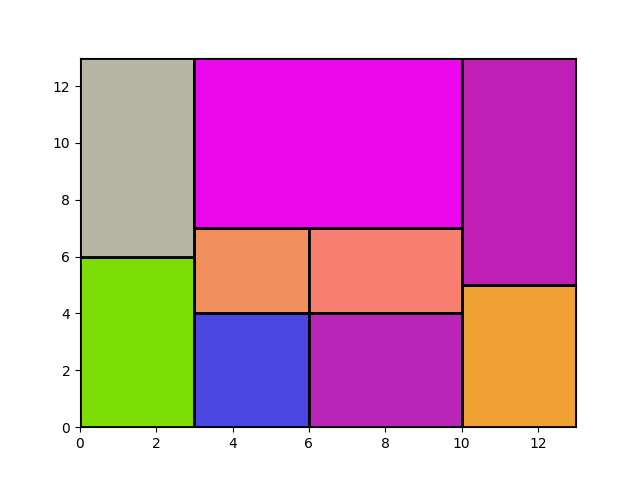
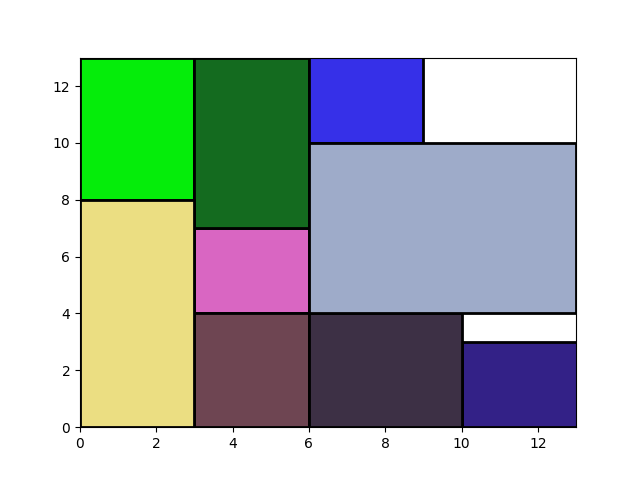
added a rotation solver

diff --git a/SMT/rotation_solver.py b/SMT/rotation_solver.py
@@ -1,7 +1,7 @@
 import numpy as np
 from z3 import *
 import matplotlib.pyplot as plt
-
+import os
 from random import randint
 import matplotlib.pyplot as plt
 from matplotlib.patches import Rectangle
@@ -9,6 +9,8 @@ import time
 from itertools import combinations
 import utils as utils
 
+
+set_option(timeout=300000)
 
 def plate(w, n, min_h, max_h, chip_w, chip_h):
   start_time = time.time()
@@ -41,57 +43,78 @@ def plate(w, n, min_h, max_h, chip_w, chip_h):
 
 
           #domani bounds
-          s.add([And(0 <= x_positions[i], x_positions[i] <= w - chip_w[i])
+          s.add([And(0 <= x_positions[i], x_positions[i] <= w - chip_w_true[i])
                              for i in range(n)])
           
-          s.add([And(0 <= y_positions[i], y_positions[i] < h - chip_h[i])
+          s.add([And(0 <= y_positions[i], y_positions[i] < h - chip_h_true[i])
                              for i in range(n)])
           
           #cumulatively on the rows
           for u in range(h):
             s.add(
-                w >= Sum([If(And(y_positions[i] <= u, u < y_positions[i] + chip_h[i]),
-                                      chip_w[i], 0) for i in range(n)]))
+                w >= Sum([If(And(y_positions[i] <= u, u < y_positions[i] + chip_h_true[i]),
+                                      chip_w_true[i], 0) for i in range(n)]))
           
           
           #cumulatively on the columns
           for u in range(w):
-                s.add(h >= Sum([If(And(x_positions[i] <= u, u < x_positions[i] + chip_w[i]),
-                                             chip_h[i], 0) for i in range(n)]))
+                s.add(h >= Sum([If(And(x_positions[i] <= u, u < x_positions[i] + chip_w_true[i]),
+                                             chip_h_true[i], 0) for i in range(n)]))
         
         
           #overlap
           for (i,j) in combinations(range(n), 2):
-              s.add(Or(y_positions[i] + chip_h[i] <= y_positions[j],
-                                       y_positions[j] + chip_h[j] <= y_positions[i],
-                                       x_positions[i] + chip_w[i] <= x_positions[j],
-                                       x_positions[j] + chip_w[j] <= x_positions[i]))
-  
-          #bottom left
-          s.add(And(x_positions[0] == 0, y_positions[0] == 0))
+              s.add(Or(y_positions[i] + chip_h_true[i] <= y_positions[j],
+                                       y_positions[j] + chip_h_true[j] <= y_positions[i],
+                                       x_positions[i] + chip_w_true[i] <= x_positions[j],
+                                       x_positions[j] + chip_w_true[j] <= x_positions[i]))
 
 
-          # circuits must be pushed on the left
-          s.add( [sum([If(x_positions[i] <= w // 2, chip_w[i]*chip_h[i], 0) for i in range(n)])
-            >= sum([If(x_positions[i] > w // 2, chip_w[i]*chip_h[i], 0) for i in range(n)])]   )
-                
-          s.check()
-          m = s.model()
-          timeout = 300000
-          s.set("timeout", timeout)
-          x_pos = []
-          for i in range(n):
-            x_pos.append(m[x_positions[i]].as_long())
-          y_pos = []
-          for i in range(n):
-            y_pos.append(m[y_positions[i]].as_long())
-          elapsed_time = time.time() - start_time
-          print(f'{elapsed_time * 1000:.1f} ms')
-          return m, x_pos, y_pos, h, elapsed_time
+          # for i in range(1, n):
+          #   for j in range(0, i):
+          #       s.add(Or(y_positions[i] + chip_h_true[i] <= y_positions[j],
+          #                           y_positions[j] + chip_h_true[j] <= y_positions[i],
+          #                           x_positions[i] + chip_w_true[i] <= x_positions[j],
+          #                           x_positions[j] + chip_w_true[j] <= x_positions[i]))
+
+          #symmetry breaking
+          #the strict one seems to perform worst
+          def precedes(a1, a2):
+            if not a1:
+              return True
+            if not a2:
+              return False
+            return Or(a1[0] <= a2[0], And(a1[0] == a2[0], precedes(a1[1:], a2[1:])))
+          
+          
+          s.add( precedes(y_positions,[h - y_positions[i] - chip_h_true[i] for i in range(0, len(y_positions))] ))
+          s.add( precedes(x_positions,[w - x_positions[i] - chip_w_true[i] for i in range(0, len(x_positions))] ))
+
+
+          if s.check() != sat:
+            print("Took too long")
+            break
+          else:
+            m = s.model()
+            x_pos = []
+            for i in range(n):
+              x_pos.append(m[x_positions[i]].as_long())
+            y_pos = []
+            for i in range(n):
+              y_pos.append(m[y_positions[i]].as_long())
+            rot = []
+            for i in range(n):
+              rot.append(m[rotations[i]])
+            elapsed_time = time.time() - start_time
+            print(f'{elapsed_time * 1000:.1f} ms')
+            return m, x_pos, y_pos, h, elapsed_time, rot
 
 
 
-for i in range(1,11):
+
+tim = []
+
+for i in range(1,12):
     f = utils.load_data(i)
     w = f[0]
     n = f[1]
@@ -99,10 +122,40 @@ for i in range(1,11):
     chip_h = f[3]
     min_h = sum([chip_w[k] * chip_h[k] for k in range(n)]) // w
     max_h = sum(chip_h)
-
+    print("current i", i)
     resul = plate(w, n, min_h, max_h, chip_w, chip_h)
-    utils.plot_device(resul[1], resul[2], chip_w, chip_h, w, resul[3]-1, 
-                    r"C:\Users\matte\OneDrive - Alma Mater Studiorum Università di Bologna\Combinatorial_Project\SMT\out\plot" + str(i) + ".png")
+    if resul != None:
+      out_path = os.path.join(
+        os.path.dirname(__file__),
+        'out/plo' + str(i) + ".png"
+      )
+      tim.append((i, resul[4]))
+      to_str = [resul[5][i].sexpr() for i in range(n)]
+      to_bool = []
+      for i in range(0,len(to_str)):
+            if to_str[i] == "false":
+                  to_bool.append(False)
+            else: to_bool.append(True)
+      utils.plot_device_rotation(resul[1], resul[2], chip_w, chip_h, w, resul[3]-1,  to_bool,img_path=out_path)
+    else:
+      tim.append((i, False))
 
 
+txt_path = os.path.join(
+  os.path.dirname(__file__),
+  'timings/rotation.csv'
+)
 
+np.savetxt(txt_path, tim, fmt = "%f")
+
+# print(type())
+
+# to = [resul[5][i].sexpr() for i in range(n)]
+# ou = []
+# for i in range(0,len(to)):
+#   if to[i] == "false":
+#     ou.append(False)
+#   else: ou.append(True)
+
+# print(ou)
+# print(type(ou[1]))

diff --git a/SMT/Solver.py b/SMT/Solver.py
@@ -1,7 +1,7 @@
 import numpy as np
 from z3 import *
 import matplotlib.pyplot as plt
-
+import os
 from random import randint
 import matplotlib.pyplot as plt
 from matplotlib.patches import Rectangle
@@ -24,8 +24,6 @@ def plate(w, n, min_h, max_h, chip_w, chip_h):
   #s
   s = Solver()
     
-
-  for h in range(min_h + 1, min_h + 2):
   for h in range(min_h + 1, max_h):
           print("current h: ", h - 1)
           # CONSTRAINTS
@@ -89,7 +87,7 @@ def plate(w, n, min_h, max_h, chip_w, chip_h):
 
 tim = []
 
-for i in range(1,20):
+for i in range(1,24):
     f = utils.load_data(i)
     w = f[0]
     n = f[1]
@@ -99,12 +97,20 @@ for i in range(1,20):
     max_h = sum(chip_h)
     print("current i", i)
     resul = plate(w, n, min_h, max_h, chip_w, chip_h)
+
     if resul != None:
+      out_path = os.path.join(
+        os.path.dirname(__file__),
+        'out/plot' + str(i) + ".png"
+      )
       tim.append((i, resul[4]))
-      utils.plot_device(resul[1], resul[2], chip_w, chip_h, w, resul[3]-1, r"C:\Projects\Combinatorial_Project\SMT\out\plot" + str(i) + str("s")+ ".png")
+      utils.plot_device(resul[1], resul[2], chip_w, chip_h, w, resul[3]-1, img_path=out_path)
     else:
       tim.append((i, False))
 
+txt_path = os.path.join(
+  os.path.dirname(__file__),
+  'timings/solver.csv'
+)
 
-path = r"C:\Users\matte\OneDrive - Alma Mater Studiorum Università di Bologna\Combinatorial_Project\SMT\out\times_symmetry.txt"
-
+np.savetxt(txt_path, tim, fmt = "%f")

diff --git a/SMT/Parallel_Solver.py b/SMT/Parallel_Solver.py
@@ -1,7 +1,7 @@
 import numpy as np
 from z3 import *
 import matplotlib.pyplot as plt
-
+import os
 from random import randint
 import matplotlib.pyplot as plt
 from matplotlib.patches import Rectangle
@@ -11,7 +11,7 @@ import utils as utils
 
 #Try to implement Parallelism
 set_option("parallel.enable", True)
-set_option("parallel.threads.max", 16)
+set_option("parallel.threads.max", 4)
 
 set_option(timeout=300000)
 
@@ -24,7 +24,7 @@ def plate(w, n, min_h, max_h, chip_w, chip_h):
   y_positions = [Int(f"y_pos{i}") for i in range(n)]
 
   #s
-  s = SolverFor("QF_FD")
+  s = Solver()
     
 
   for h in range(min_h + 1, min_h + 2):
@@ -91,10 +91,7 @@ def plate(w, n, min_h, max_h, chip_w, chip_h):
 
 tim = []
 
-for i in range(0,20):
-
-    
-
+for i in range(1,24):
     f = utils.load_data(i)
     w = f[0]
     n = f[1]
@@ -116,5 +113,9 @@ for i in range(0,20):
       tim.append((i, False))
 
 
+txt_path = os.path.join(
+  os.path.dirname(__file__),
+  'timings/parallel.csv'
+)
 
-#np.savetxt(r"C:\Projects\Combinatorial_Project\SMT\Timings\test.csv", tim, fmt = "%f")
+np.savetxt(txt_path, tim, fmt = "%f")

diff --git a/SMT/test.py b/SMT/test.py
@@ -1,0 +1,11 @@
+import csv
+
+
+# Read CSV file
+with open(r"C:\Users\matte\Desktop\project\Combinatorial_Project\SMT\Timings\parallel.csv") as fp:
+    reader = csv.reader(fp, delimiter=" ", quotechar='"')
+    # next(reader, None)  # skip the headers
+    data_read = [row for row in reader]
+
+
+print(data_read)
